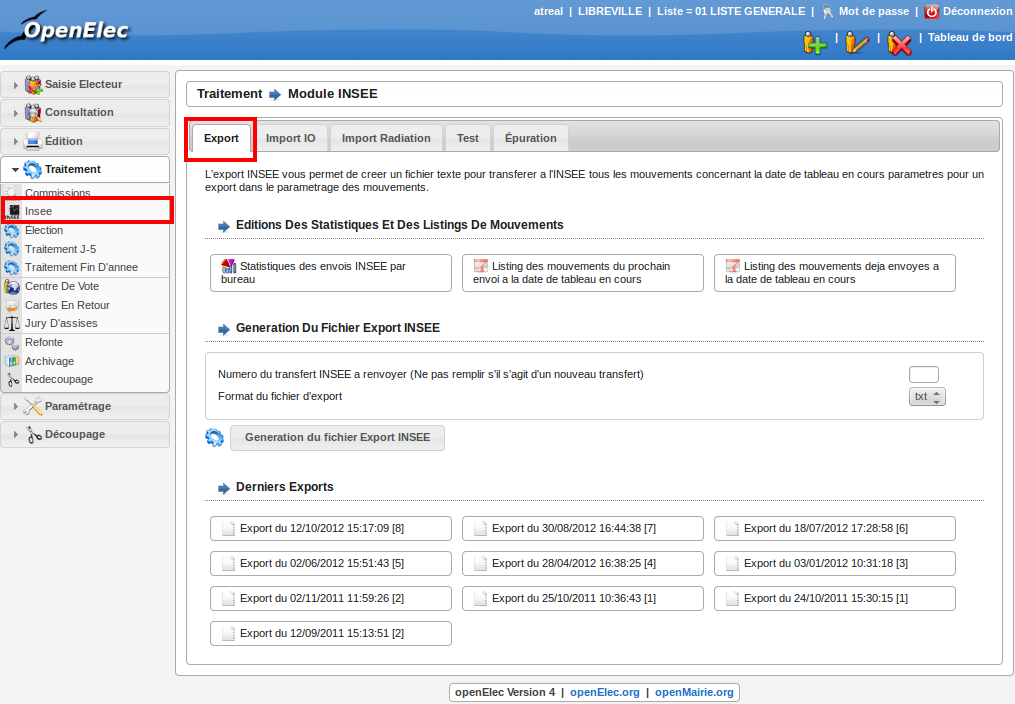
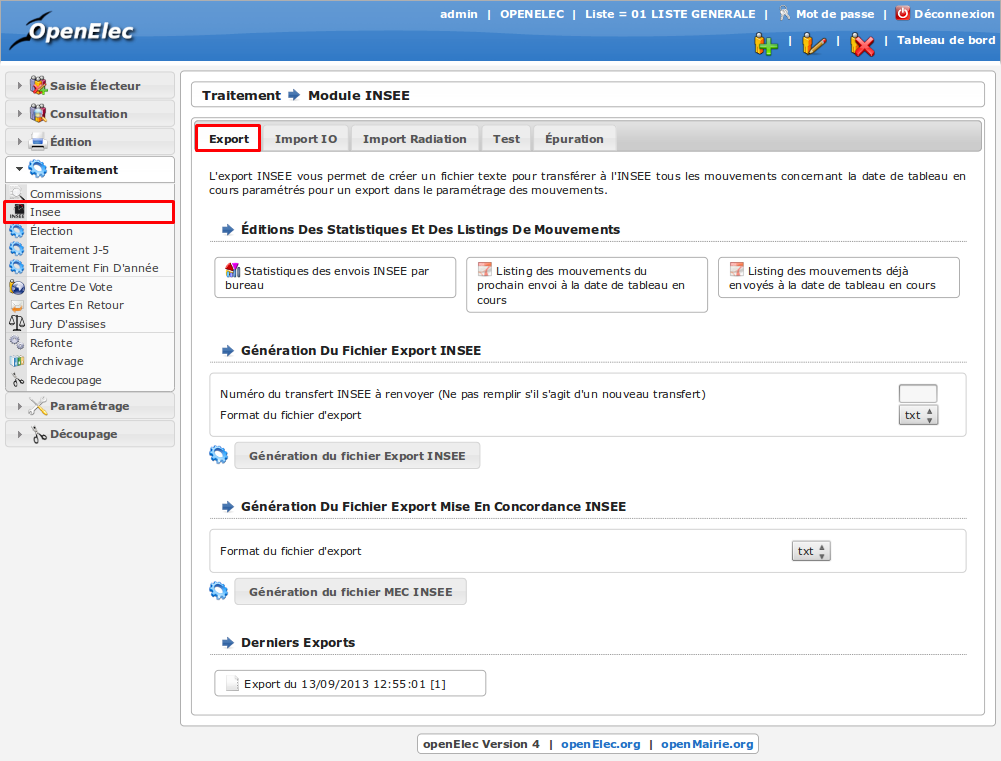
Amélioration de la documentation concernant les exports xml et MEC

Changed region(s): [[0.0, 0.0, 1.0, 1.0], [0.6813, 0.6875, 0.8981, 0.875]]

diff --git a/source/manuel_utilisateur/traitements/module_insee.rst b/source/manuel_utilisateur/traitements/module_insee.rst
@@ -76,9 +76,13 @@ ce mouvement en cliquant sur le bouton " Ajouter ".
 Export INSEE
 ============
 
-L'export INSEE vous permet de créer un fichier pour transférer à
-l'INSEE tous les mouvements concernant la date de tableau en cours et
-paramètres pour un export dans le paramétrage des mouvements.
+L'export INSEE vous permet de créer deux fichiers à transférer à l'INSEE :
+
+* l'un porte sur tous les mouvements concernant la date de tableau en cours et
+paramètres pour un export dans le paramétrage des mouvements
+
+* l'autre sur l'export de mise en concordance des listes éléctorales et du fichier
+général des électeurs
 
 Pour ce faire, allez dans la rubrique " Traitement / Insee ".
 
@@ -104,3 +108,5 @@ Vous trouverez dans la dernière colonne " envoi " la date d'envoi et son
 numéro. Entrer ce numéro dans le champ " Numéro du transfert INSEE à renvoyer "
 puis cliquez sur le bouton " Génération du fichier Export INSEE ".
 
+De la même façon pour générer le fichier de mise en concordance il suffit de
+cliquer sur le bouton " Génération du fichier MEC INSEE ".
